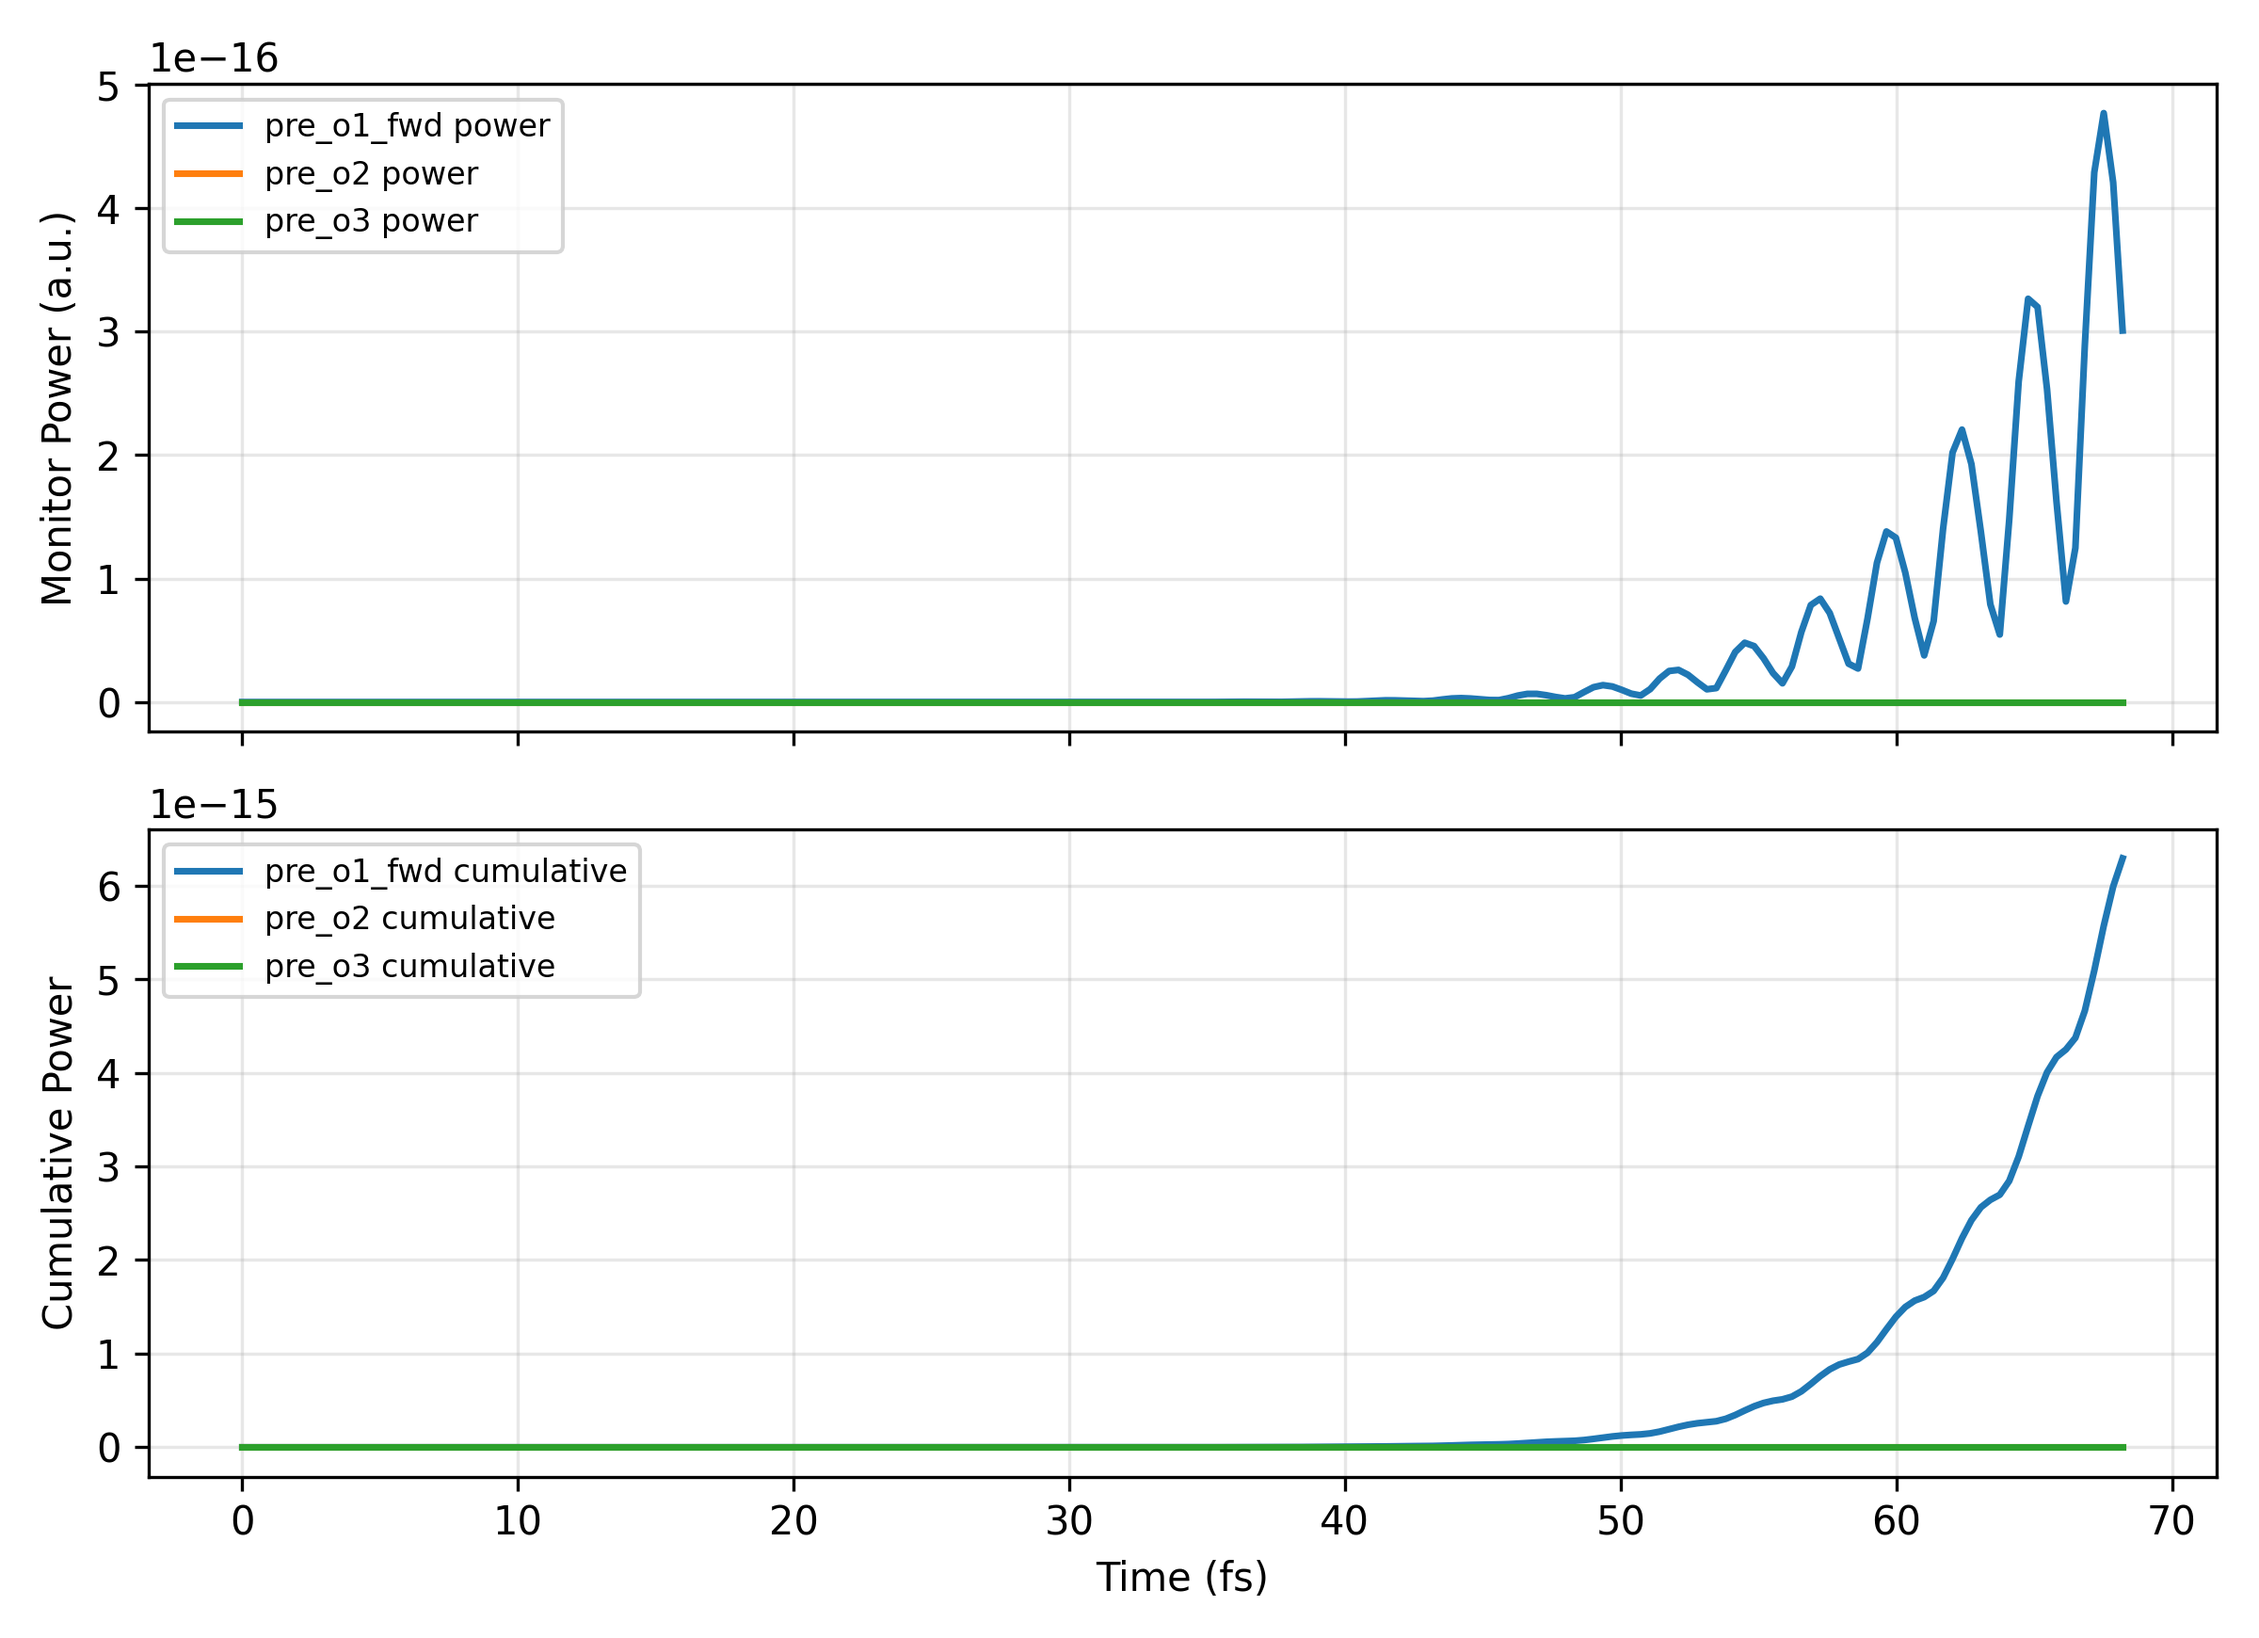
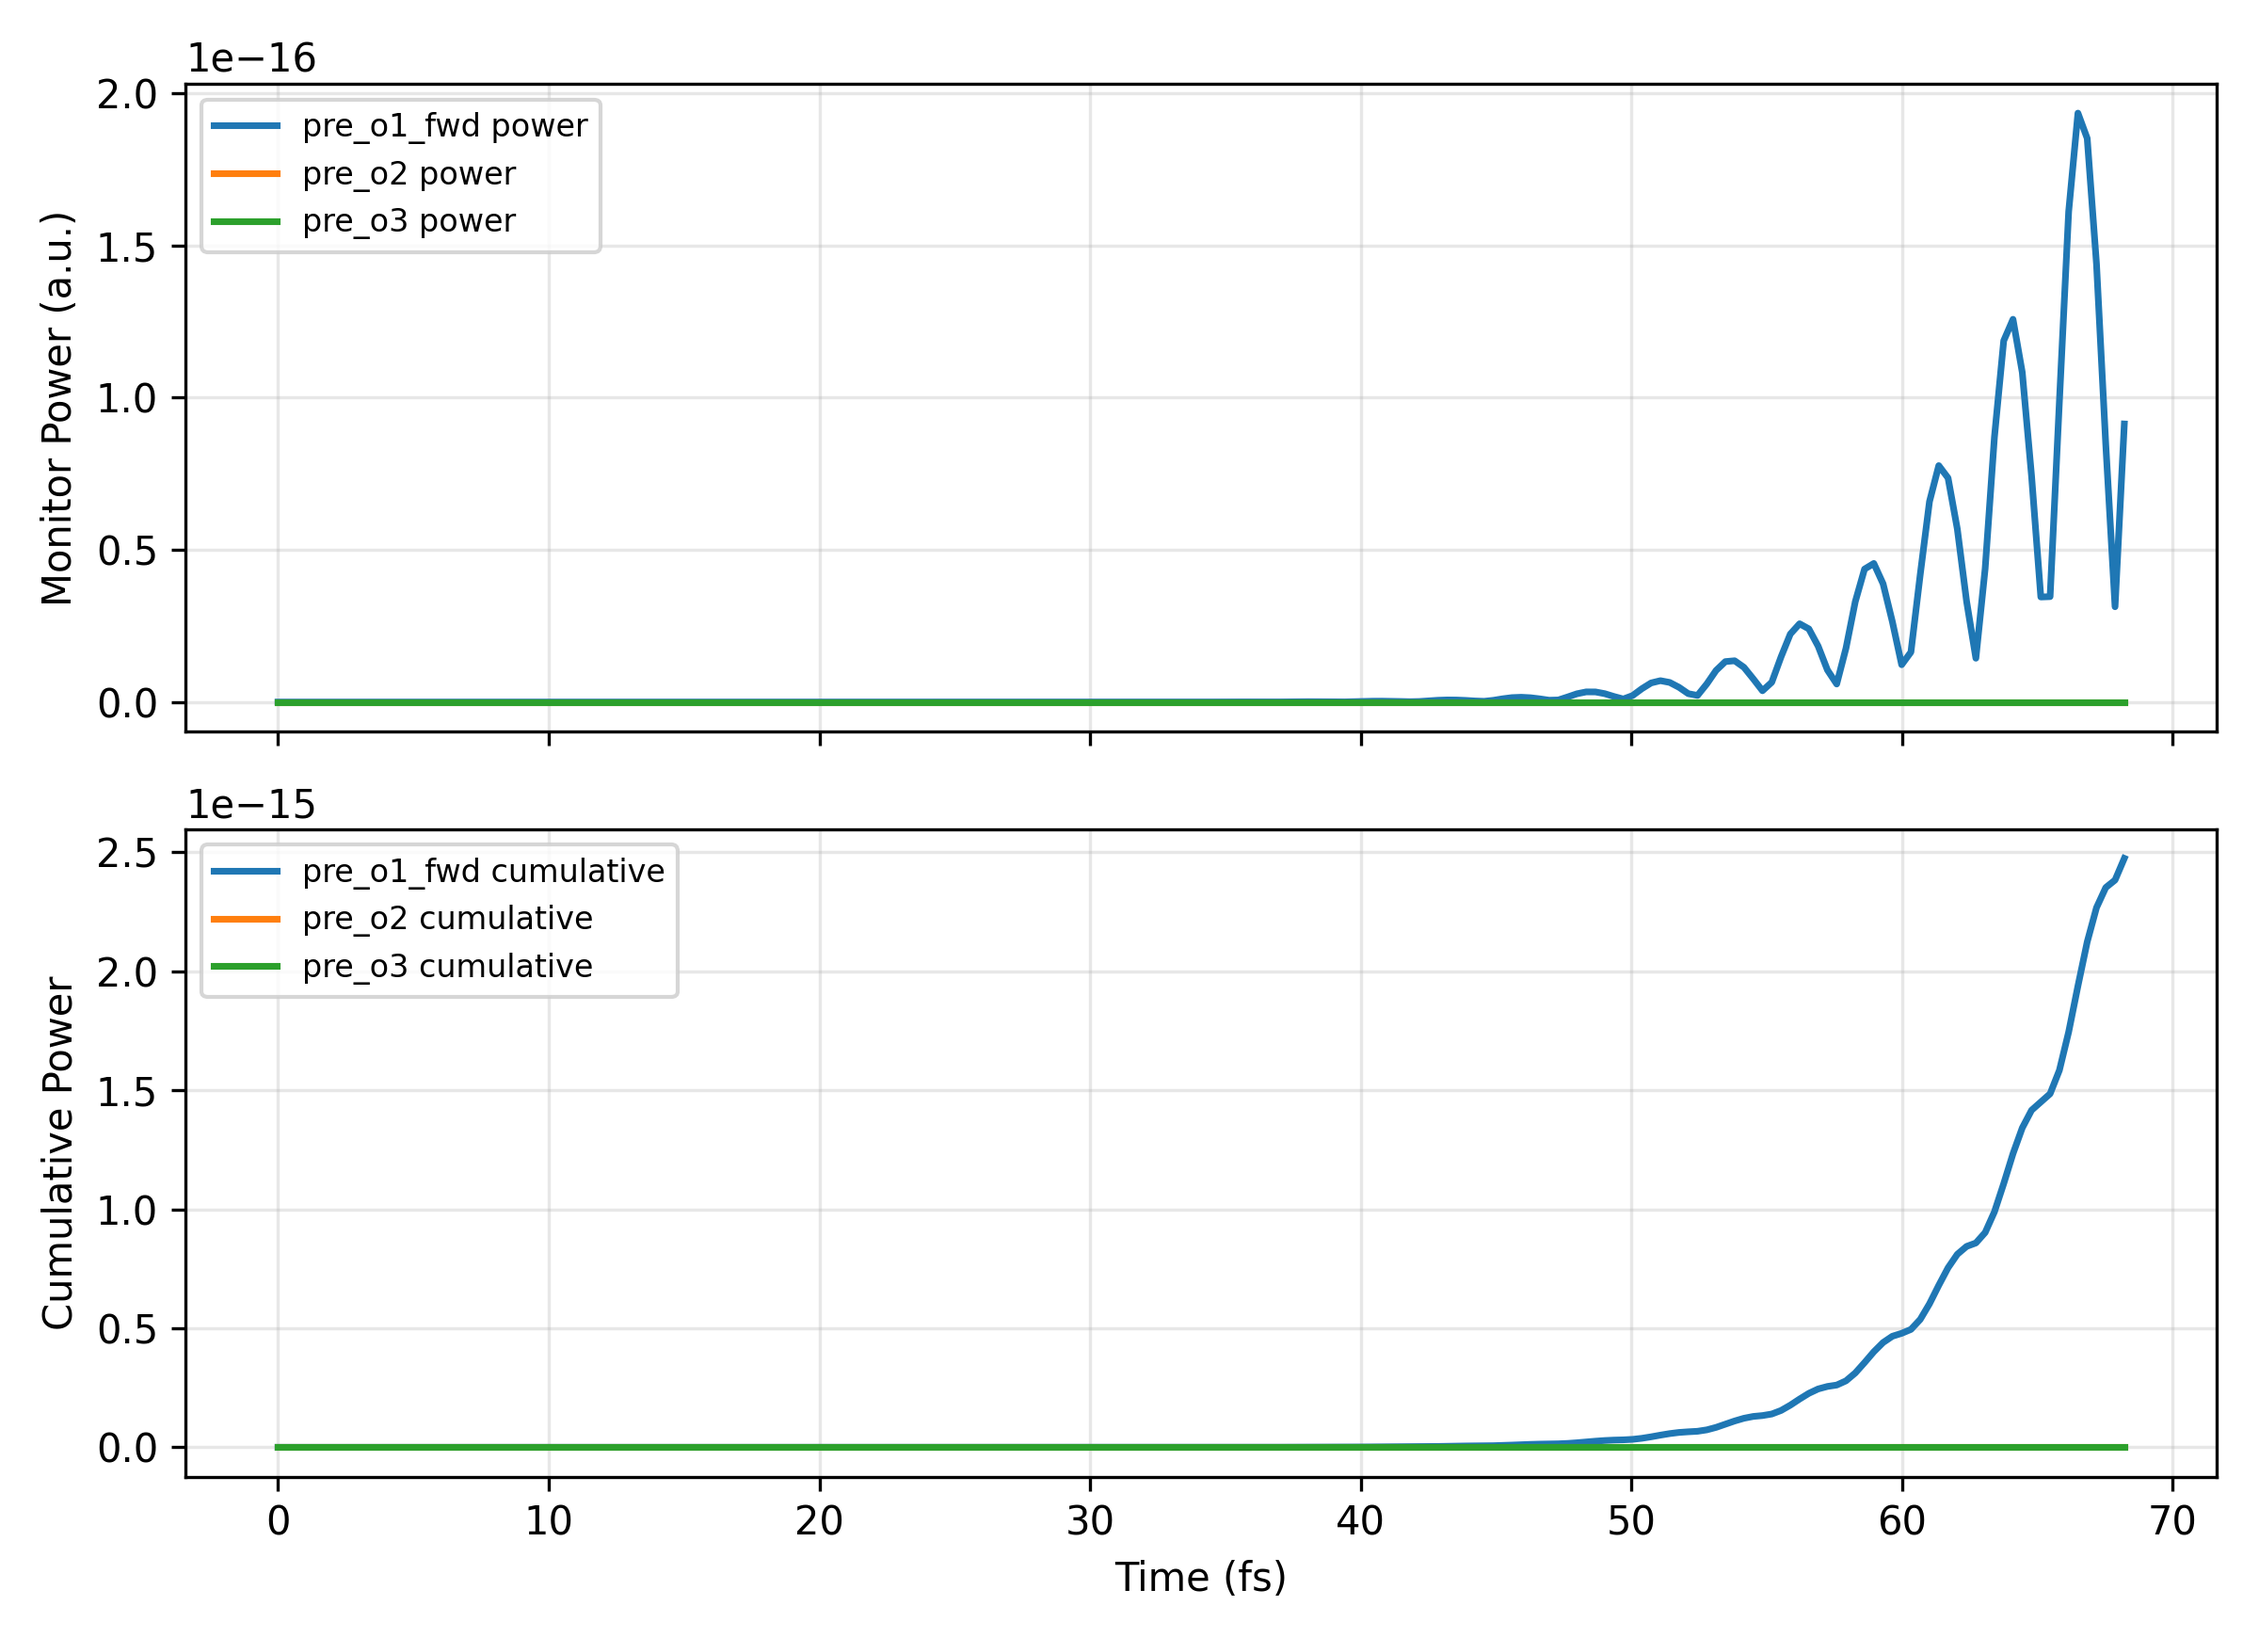
Add new image assets and enhance visualization in simulation scripts
- Introduced a new image asset for sax splitter terms in Meep style.
- Updated existing image assets for design preflight views, full run power traces, mode source fields, and preflight flux traces to improve consistency and clarity.
- Enhanced the example script to improve material visualization and overlay features in 3D simulation plots.

diff --git a/examples/gdsf_to_sax_meep_style.py b/examples/gdsf_to_sax_meep_style.py
@@ -15,8 +15,12 @@ from pathlib import Path
 import matplotlib.pyplot as plt
 import numpy as np
 import sax
+from matplotlib.colors import BoundaryNorm, ListedColormap
+from matplotlib.lines import Line2D
+from matplotlib.patches import Patch, Rectangle as MplRect
 
 from beamz import *
+from beamz.const import BLUE, GREEN, ORANGE, PURPLE, RED
 from beamz.devices.sources.signals import gaussian_pulse
 from beamz.visual.helpers import dxdt
 
@@ -266,11 +270,24 @@ def save_mode_diagnostics(mode_source, out_path):
     plt.close(fig)
 
 
-def draw_pml_lines(ax, x_max_um, y_max_um, pml_x_um, pml_y_um):
-    ax.axvline(pml_x_um, color="white", linestyle="--", linewidth=1.0, alpha=0.8)
-    ax.axvline(x_max_um - pml_x_um, color="white", linestyle="--", linewidth=1.0, alpha=0.8)
-    ax.axhline(pml_y_um, color="white", linestyle="--", linewidth=1.0, alpha=0.8)
-    ax.axhline(y_max_um - pml_y_um, color="white", linestyle="--", linewidth=1.0, alpha=0.8)
+def draw_pml_lines(
+    ax,
+    x_max_um,
+    y_max_um,
+    pml_x_um,
+    pml_y_um,
+    *,
+    color="white",
+    alpha=0.85,
+):
+    ax.axvline(pml_x_um, color=color, linestyle="--", linewidth=1.0, alpha=alpha)
+    ax.axvline(
+        x_max_um - pml_x_um, color=color, linestyle="--", linewidth=1.0, alpha=alpha
+    )
+    ax.axhline(pml_y_um, color=color, linestyle="--", linewidth=1.0, alpha=alpha)
+    ax.axhline(
+        y_max_um - pml_y_um, color=color, linestyle="--", linewidth=1.0, alpha=alpha
+    )
 
 
 def save_design_debug_plots(
@@ -283,77 +300,173 @@ def save_design_debug_plots(
     out_path,
 ):
     eps = np.asarray(permittivity, dtype=float)
-    core_mask = eps > (0.5 * (N_CORE**2 + N_CLAD**2))
+    material_eps = [N_CLAD**2, N_CORE**2]
+    material_names = ["Cladding", "Core"]
+    material_colors = [GREEN, ORANGE]
+
+    eps_floor = float(np.min(eps))
+    if eps_floor < (0.9 * (N_CLAD**2)):
+        material_eps.insert(0, eps_floor)
+        material_names.insert(0, "Background")
+        material_colors.insert(0, BLUE)
+
+    eps_ref = np.asarray(material_eps, dtype=float)
+    eps_expanded = eps[..., None]
+    material_idx = np.argmin(np.abs(eps_expanded - eps_ref[None, None, None, :]), axis=-1)
+    cmap = ListedColormap(material_colors)
+    norm = BoundaryNorm(np.arange(-0.5, len(material_eps) + 0.5, 1.0), cmap.N)
 
     z_mid = int(np.clip(round(source_ctr[2] / DX), 0, eps.shape[0] - 1))
     y_mid = int(np.clip(round(source_ctr[1] / DX), 0, eps.shape[1] - 1))
     x_src = int(np.clip(round(source_ctr[0] / DX), 0, eps.shape[2] - 1))
 
-    xy = core_mask[z_mid]
-    xz = core_mask[:, y_mid, :]
-    yz = core_mask[:, :, x_src]
+    xy = material_idx[z_mid]
+    xz = material_idx[:, y_mid, :]
+    yz = material_idx[:, :, x_src]
+    boundary_levels = np.arange(0.5, len(material_eps) - 0.5, 1.0)
+
+    monitor_colors = {
+        "o1_fwd": BLUE,
+        "o1_ref": PURPLE,
+        "o2": GREEN,
+        "o3": ORANGE,
+    }
 
     fig, axes = plt.subplots(1, 3, figsize=(14, 4.5), dpi=200)
     axes[0].imshow(
         xy,
         origin="lower",
-        cmap="gray_r",
+        cmap=cmap,
+        norm=norm,
+        interpolation="nearest",
         extent=[0, design_obj.width / µm, 0, design_obj.height / µm],
         aspect="equal",
     )
-    axes[0].set_title(f"XY Core Mask (z={source_ctr[2]/µm:.2f} um)")
+    axes[0].set_title(f"XY Material Slice (z={source_ctr[2]/µm:.2f} um)")
     axes[0].set_xlabel("x (um)")
     axes[0].set_ylabel("y (um)")
+    if boundary_levels.size:
+        axes[0].contour(
+            xy,
+            levels=boundary_levels,
+            colors="black",
+            linewidths=0.9,
+            origin="lower",
+            extent=[0, design_obj.width / µm, 0, design_obj.height / µm],
+        )
 
     axes[1].imshow(
         xz,
         origin="lower",
-        cmap="gray_r",
+        cmap=cmap,
+        norm=norm,
+        interpolation="nearest",
         extent=[0, design_obj.width / µm, 0, design_obj.depth / µm],
         aspect="equal",
     )
-    axes[1].set_title(f"XZ Core Mask (y={source_ctr[1]/µm:.2f} um)")
+    axes[1].set_title(f"XZ Material Slice (y={source_ctr[1]/µm:.2f} um)")
     axes[1].set_xlabel("x (um)")
     axes[1].set_ylabel("z (um)")
+    if boundary_levels.size:
+        axes[1].contour(
+            xz,
+            levels=boundary_levels,
+            colors="black",
+            linewidths=0.9,
+            origin="lower",
+            extent=[0, design_obj.width / µm, 0, design_obj.depth / µm],
+        )
 
     axes[2].imshow(
         yz,
         origin="lower",
-        cmap="gray_r",
+        cmap=cmap,
+        norm=norm,
+        interpolation="nearest",
         extent=[0, design_obj.height / µm, 0, design_obj.depth / µm],
         aspect="equal",
     )
-    axes[2].set_title(f"YZ Core Mask (x={source_ctr[0]/µm:.2f} um)")
+    axes[2].set_title(f"YZ Material Slice (x={source_ctr[0]/µm:.2f} um)")
     axes[2].set_xlabel("y (um)")
     axes[2].set_ylabel("z (um)")
+    if boundary_levels.size:
+        axes[2].contour(
+            yz,
+            levels=boundary_levels,
+            colors="black",
+            linewidths=0.9,
+            origin="lower",
+            extent=[0, design_obj.height / µm, 0, design_obj.depth / µm],
+        )
 
     # Source window overlays.
-    axes[0].plot(
-        [source_ctr[0] / µm, source_ctr[0] / µm],
-        [(source_ctr[1] - 0.5 * src_w) / µm, (source_ctr[1] + 0.5 * src_w) / µm],
-        color="red",
-        linewidth=2.0,
+    axes[0].add_patch(
+        MplRect(
+            (
+                source_ctr[0] / µm - 0.03,
+                (source_ctr[1] - 0.5 * src_w) / µm,
+            ),
+            0.06,
+            src_w / µm,
+            fill=False,
+            edgecolor=RED,
+            linewidth=2.0,
+        )
     )
-    axes[1].plot(
-        [source_ctr[0] / µm, source_ctr[0] / µm],
-        [(source_ctr[2] - 0.5 * src_h) / µm, (source_ctr[2] + 0.5 * src_h) / µm],
-        color="red",
-        linewidth=2.0,
+    axes[1].add_patch(
+        MplRect(
+            (
+                source_ctr[0] / µm - 0.03,
+                (source_ctr[2] - 0.5 * src_h) / µm,
+            ),
+            0.06,
+            src_h / µm,
+            fill=False,
+            edgecolor=RED,
+            linewidth=2.0,
+        )
     )
-    axes[2].plot(
-        [(source_ctr[1] - 0.5 * src_w) / µm, (source_ctr[1] + 0.5 * src_w) / µm],
-        [(source_ctr[2] - 0.5 * src_h) / µm, (source_ctr[2] + 0.5 * src_h) / µm],
-        color="red",
-        linewidth=2.0,
+    axes[2].add_patch(
+        MplRect(
+            (
+                (source_ctr[1] - 0.5 * src_w) / µm,
+                (source_ctr[2] - 0.5 * src_h) / µm,
+            ),
+            src_w / µm,
+            src_h / µm,
+            fill=False,
+            edgecolor=RED,
+            linewidth=2.0,
+        )
     )
 
-    # Monitor window center lines.
+    # Monitor window overlays.
     for name, (s, e) in port_planes.items():
         x0, y0, z0 = s
         x1, y1, z1 = e
-        axes[0].plot([x0 / µm, x1 / µm], [0.5 * (y0 + y1) / µm, 0.5 * (y0 + y1) / µm], linewidth=1.2, label=name)
-        axes[1].plot([x0 / µm, x1 / µm], [0.5 * (z0 + z1) / µm, 0.5 * (z0 + z1) / µm], linewidth=1.2, label=name)
-        axes[2].plot([0.5 * (y0 + y1) / µm, 0.5 * (y0 + y1) / µm], [z0 / µm, z1 / µm], linewidth=1.2, label=name)
+        color = monitor_colors.get(name, "tab:cyan")
+        axes[0].plot(
+            [x0 / µm, x1 / µm],
+            [0.5 * (y0 + y1) / µm, 0.5 * (y0 + y1) / µm],
+            color=color,
+            linewidth=1.6,
+        )
+        axes[1].plot(
+            [x0 / µm, x1 / µm],
+            [0.5 * (z0 + z1) / µm, 0.5 * (z0 + z1) / µm],
+            color=color,
+            linewidth=1.6,
+        )
+        axes[2].add_patch(
+            MplRect(
+                (min(y0, y1) / µm, min(z0, z1) / µm),
+                abs(y1 - y0) / µm,
+                abs(z1 - z0) / µm,
+                fill=False,
+                edgecolor=color,
+                linewidth=1.3,
+            )
+        )
 
     draw_pml_lines(
         axes[0],
@@ -361,6 +474,7 @@ def save_design_debug_plots(
         design_obj.height / µm,
         PML_XY / µm,
         PML_XY / µm,
+        color="white",
     )
     draw_pml_lines(
         axes[1],
@@ -368,6 +482,7 @@ def save_design_debug_plots(
         design_obj.depth / µm,
         PML_XY / µm,
         PML_Z / µm,
+        color="white",
     )
     draw_pml_lines(
         axes[2],
@@ -375,11 +490,37 @@ def save_design_debug_plots(
         design_obj.depth / µm,
         PML_XY / µm,
         PML_Z / µm,
+        color="white",
     )
     for ax in axes:
         ax.grid(alpha=0.2, linestyle="--")
-    axes[0].legend(loc="lower right", fontsize=8)
-    fig.tight_layout()
+
+    material_handles = [
+        Patch(
+            facecolor=material_colors[i],
+            edgecolor="black",
+            label=f"{material_names[i]} (eps={material_eps[i]:.3f})",
+        )
+        for i in range(len(material_eps))
+    ]
+    monitor_handles = [
+        Line2D([0], [0], color=monitor_colors[k], lw=1.8, label=k)
+        for k in ["o1_fwd", "o1_ref", "o2", "o3"]
+        if k in port_planes
+    ]
+    extra_handles = [
+        Line2D([0], [0], color=RED, lw=2.0, label="Mode source"),
+        Line2D([0], [0], color="white", lw=1.0, linestyle="--", label="PML boundaries"),
+    ]
+    fig.legend(
+        handles=[*material_handles, *monitor_handles, *extra_handles],
+        loc="lower center",
+        ncol=4,
+        fontsize=8,
+        framealpha=0.9,
+        bbox_to_anchor=(0.5, -0.02),
+    )
+    fig.tight_layout(rect=[0.0, 0.08, 1.0, 1.0])
     fig.savefig(out_path, dpi=260)
     plt.close(fig)
 
